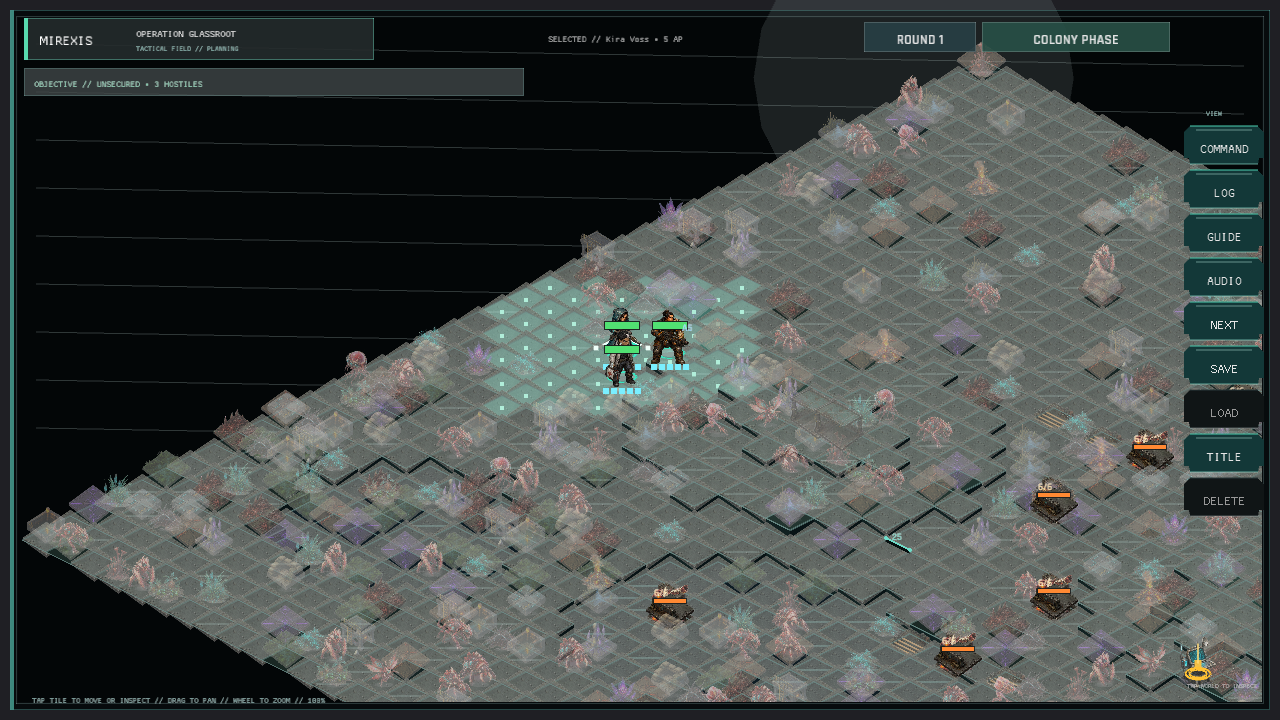
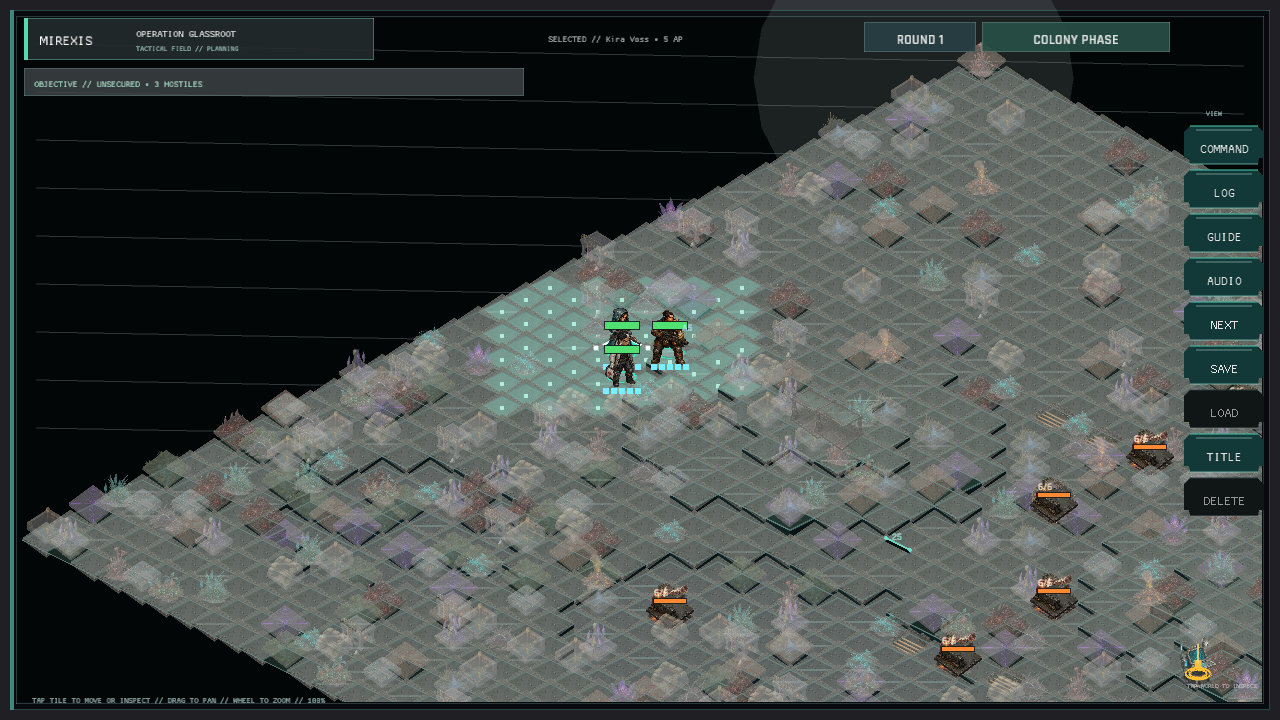
The mire keeps false beasts from haunting empty ground (tactical terrain dressing)
Empty tactical tiles could draw cells from the brood_fauna concept atlas, making decorative creatures look like untracked enemies. Route every open-tile decoration through a deterministic selector that admits only flora and authored terrain dressing, replacing the former fauna slot with structures, wreckage, pools, and other ground features.

Two focused tests pin the allowed atlases and the former fauna residue. Refresh the canonical gameplay capture and its inventory; the audit also reconciles a previously stale colony-capture hash. Verified with all 512 unit tests, both integration checks, formatting, source-size and diff gates, visual inspection, and the full Windows/WebGL Preview publisher.

diff --git a/src/world_art.rs b/src/world_art.rs
@@ -1,5 +1,8 @@
 //! Runtime use of the promoted concept sprites in the tactical world.
 
+#[cfg(test)]
+mod tests;
+
 use crate::grid_ui::GridView;
 use crate::visual_assets::VisualCatalog;
 use macroquad::prelude::*;
@@ -75,32 +78,24 @@ pub(crate) fn draw_tactical_dressing(
         return;
     }
 
-    match signature % 23 {
-        0 | 1 => draw_tile_cell(
+    match open_tile_dressing(signature) {
+        Some(("flora", cell)) => draw_tile_cell(
             &context,
             "flora",
-            flora_cell(signature),
+            cell,
             0.78,
             [0.50, 0.84],
             Color::new(0.78, 0.94, 0.88, 0.52),
         ),
-        2 => draw_tile_cell(
-            &context,
-            "brood_fauna",
-            (signature % 8) as usize,
-            0.84,
-            [0.50, 0.86],
-            Color::new(1.0, 0.90, 0.90, 0.58),
-        ),
-        3 | 4 => draw_tile_cell(
+        Some(("terrain_dressing", cell)) => draw_tile_cell(
             &context,
             "terrain_dressing",
-            terrain_dressing_cell(signature),
+            cell,
             0.86,
             [0.50, 0.84],
             Color::new(0.86, 0.94, 0.92, 0.42),
         ),
-        _ => {}
+        Some(_) | None => {}
     }
 }
 
@@ -232,6 +227,14 @@ fn flora_cell(signature: u32) -> usize {
 
 fn terrain_dressing_cell(signature: u32) -> usize {
     [0, 1, 4, 5, 8, 9][(signature % 6) as usize]
+}
+
+fn open_tile_dressing(signature: u32) -> Option<(&'static str, usize)> {
+    match signature % 23 {
+        0 | 1 => Some(("flora", flora_cell(signature))),
+        2 | 3 | 4 => Some(("terrain_dressing", terrain_dressing_cell(signature))),
+        _ => None,
+    }
 }
 
 fn tile_signature(position: TilePos) -> u32 {

diff --git a/src/world_art/tests.rs b/src/world_art/tests.rs
@@ -1,0 +1,22 @@
+use super::*;
+
+#[test]
+fn empty_tactical_tiles_only_select_terrain_or_flora_dressing() {
+    for signature in 0..23 {
+        let Some((atlas, _)) = open_tile_dressing(signature) else {
+            continue;
+        };
+        assert!(
+            matches!(atlas, "flora" | "terrain_dressing"),
+            "empty tile selected non-terrain atlas {atlas}"
+        );
+    }
+}
+
+#[test]
+fn former_fauna_slot_selects_authored_terrain_dressing() {
+    assert!(matches!(
+        open_tile_dressing(2),
+        Some(("terrain_dressing", _))
+    ));
+}

diff --git a/docs/verification/FINAL_CAPTURE_INVENTORY.md b/docs/verification/FINAL_CAPTURE_INVENTORY.md
@@ -54,7 +54,7 @@ Manifest: `scripts/capture_ui.ps1`
[8 lines of base64/hex data omitted]
@@ -113,7 +113,7 @@ Manifest: `scripts/capture_ui.ps1`
[8 lines of base64/hex data omitted]
